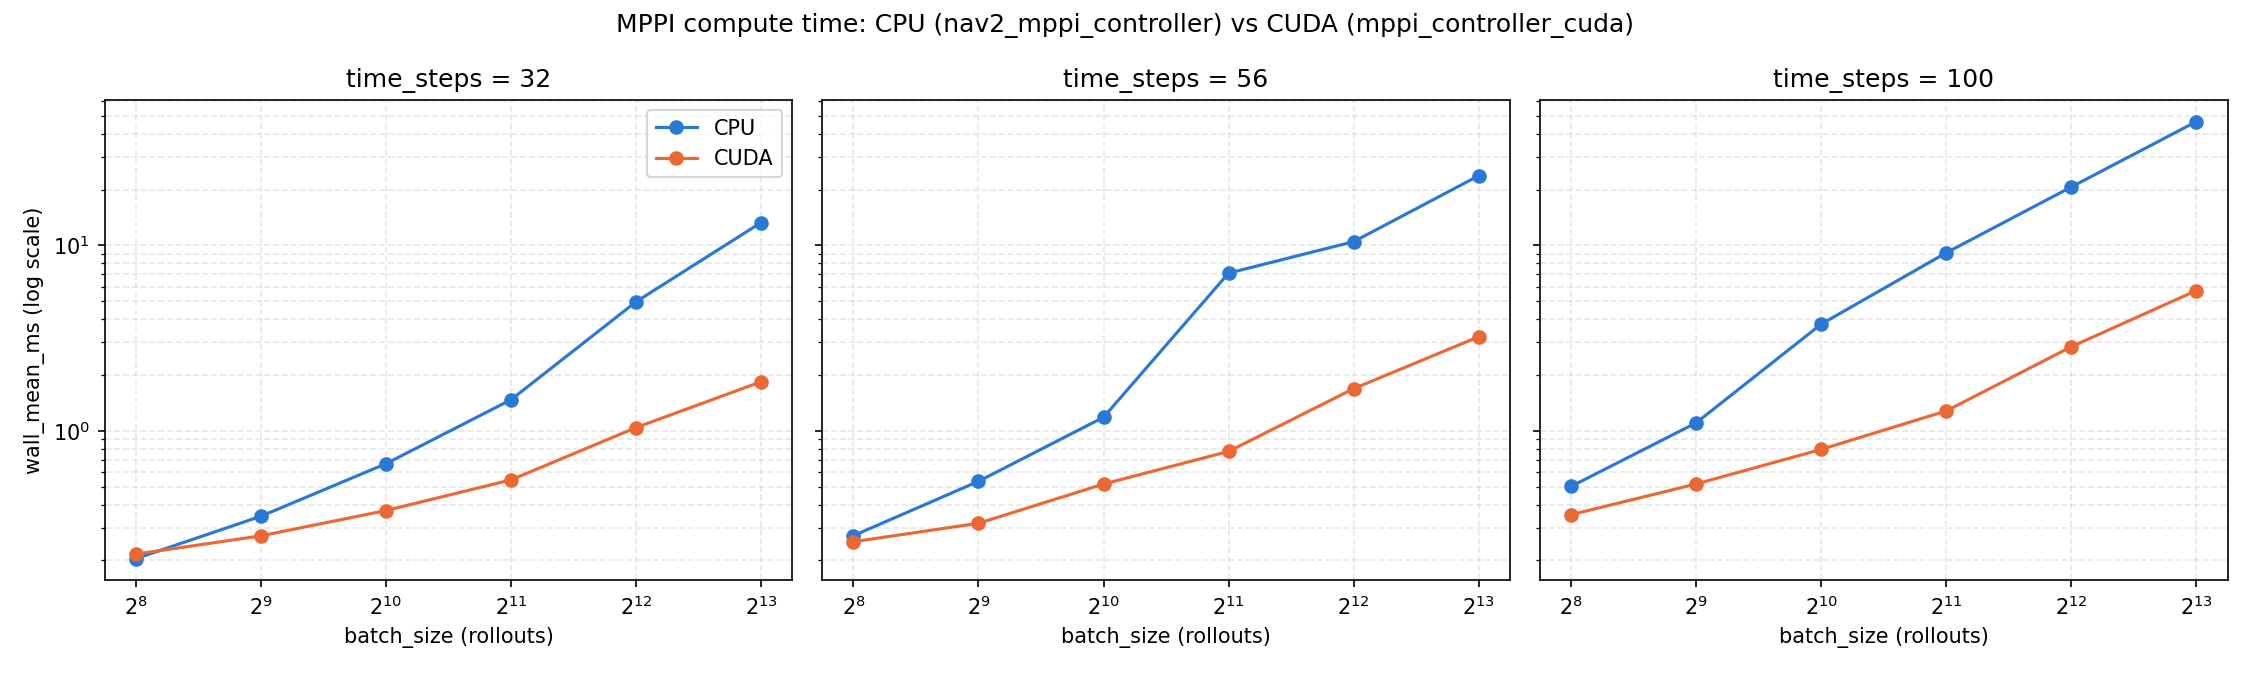
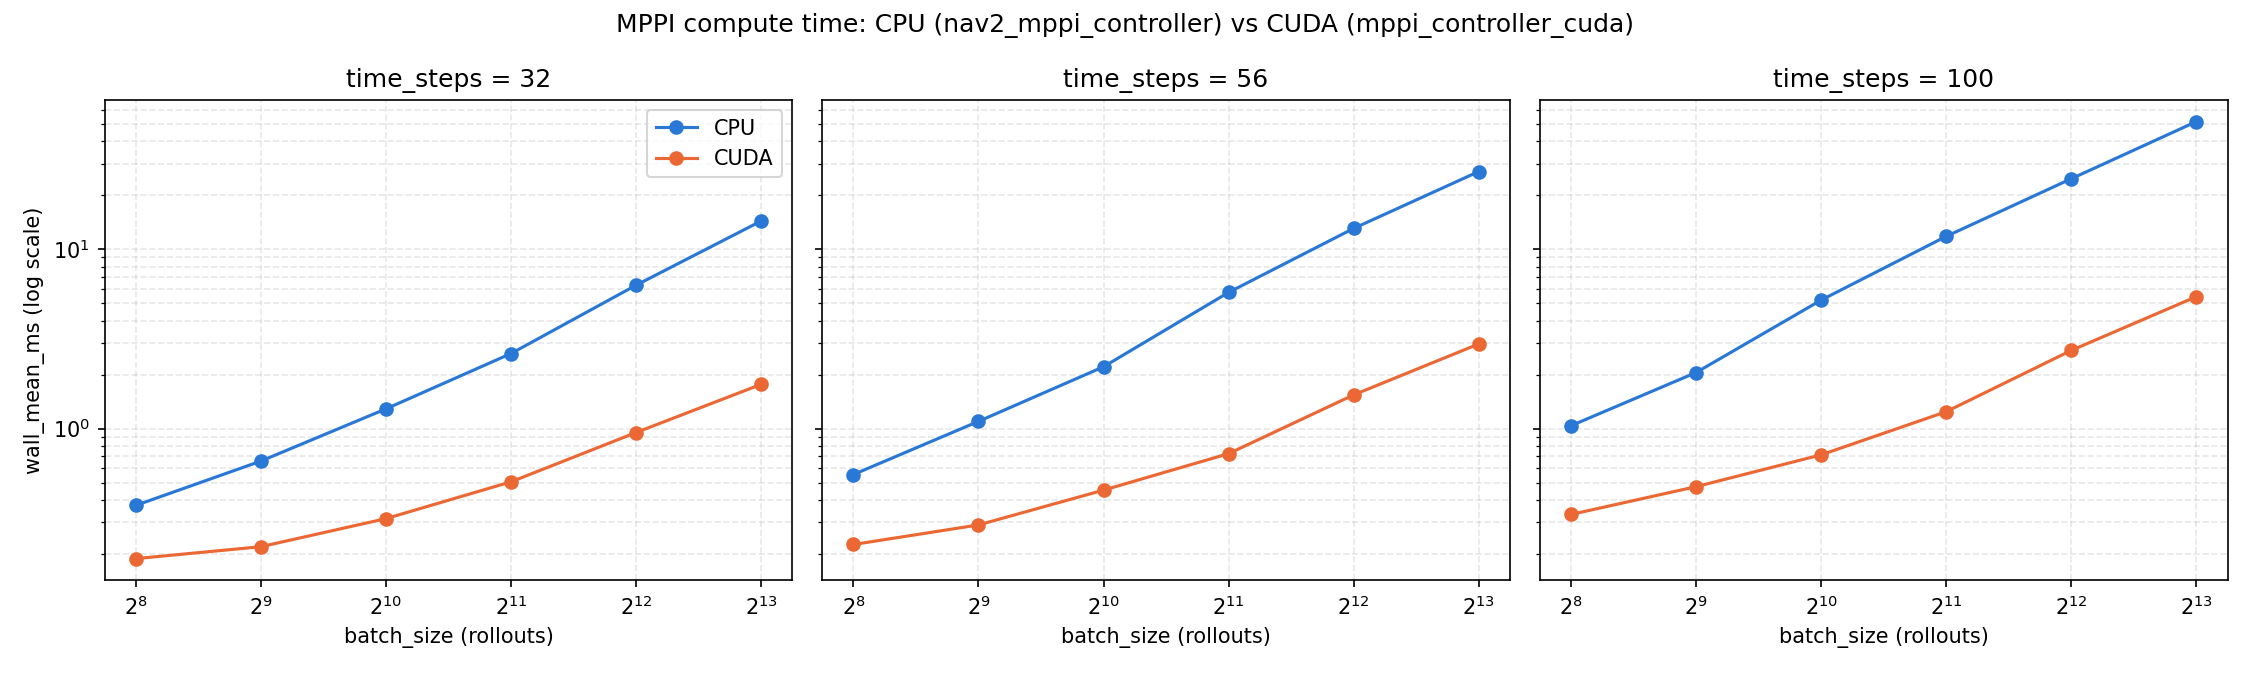
update sweep benchmark

diff --git a/benchmark/cpu_sweep_bench.cpp b/benchmark/cpu_sweep_bench.cpp
@@ -69,8 +69,9 @@ SweepPointResult runSweepPoint(
   params.emplace_back(name + ".motion_model", std::string("DiffDrive"));
   params.emplace_back(
     name + ".critics", std::vector<std::string>{
-    "ConstraintCritic", "GoalCritic", "GoalAngleCritic", "PathAlignCritic",
-    "PathFollowCritic", "PathAngleCritic", "PreferForwardCritic"});
+    "ConstraintCritic", "CostCritic", "GoalCritic", "GoalAngleCritic", "ObstaclesCritic",
+    "PathAlignCritic", "PathFollowCritic", "PathAngleCritic", "PreferForwardCritic",
+    "TwirlingCritic", "VelocityDeadbandCritic"});
   params.emplace_back("controller_frequency", 50.0);
   rclcpp::NodeOptions options;
   options.parameter_overrides(params);

diff --git a/benchmark/README.md b/benchmark/README.md
@@ -15,6 +15,13 @@ Flags: `--pid` (target PID), `--name` (regex fallback if no `--pid`), `--interva
 
 Note: measures the whole `controller_server` process (costmap updates etc. included, not just the plugin).
 
+`run_live_cpu_test.sh` automates the above: publishes a goal to `/goal_pose`, finds the `controller_server` PID, and samples it for a fixed window. Nav2 must already be launched (`use_composition:=False`) and localized.
+
+```sh
+bash benchmark/run_live_cpu_test.sh [goal_x] [goal_y] [duration] [interval]
+bash benchmark/run_live_cpu_test.sh 1.76 0.99 10 0.2
+```
+
 ## Sweep benchmark
 
 Per-call time of the rollout optimizer, swept across `batch_size`/`time_steps`. `sweep_bench.cu` (GPU, this plugin) and `cpu_sweep_bench.cpp` (CPU, `nav2_mppi_controller::Optimizer::evalControl()`).
